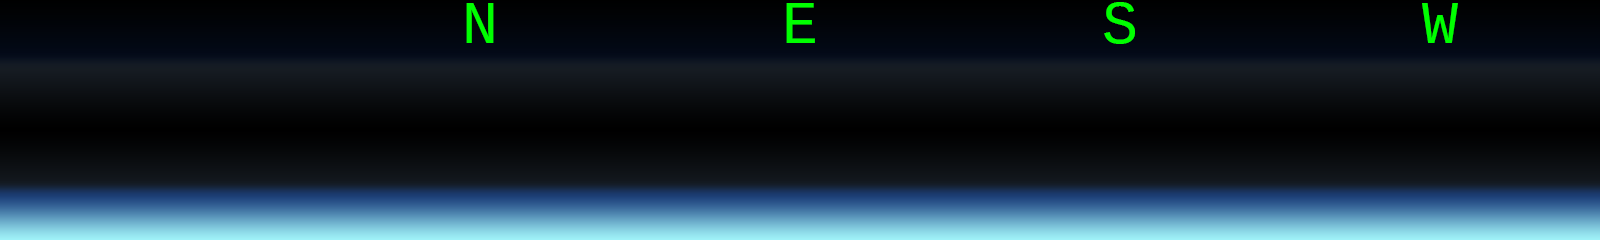
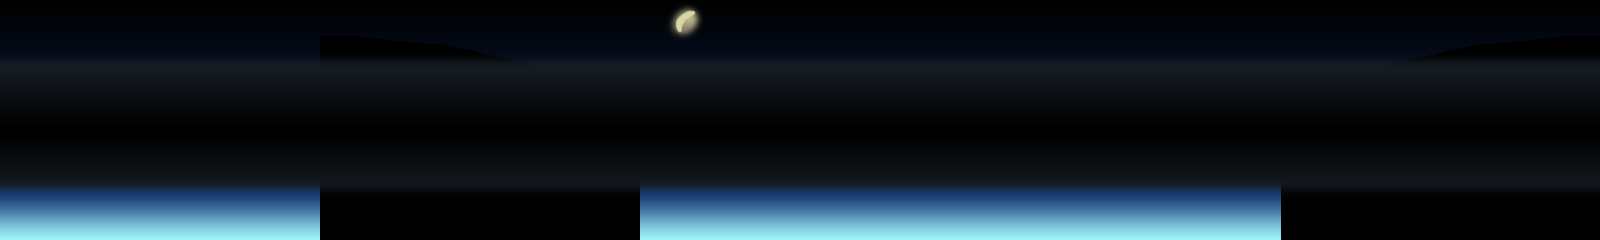
new background and shop picture system

diff --git a/release/js/dialog.js b/release/js/dialog.js
@@ -2,6 +2,8 @@
  Conversation and shop handling
  */
 
+var DIALOG_PICTURE_COUNT = 3;
+
 var DIALOG_BUTTON_NONE = 0;
 var DIALOG_BUTTON_BUY = 1;
 var DIALOG_BUTTON_EXIT = 2;
@@ -15,11 +17,17 @@ var dialog = new Object();
 dialog.select_pos = BUTTON_POS_OPT2;
 dialog.button_img = new Image();
 dialog.button_img_loaded = false;
+dialog.picture_img = new Array();
+dialog.picture_img_loaded = false;
+dialog.picture_img_loadcount = 0;
 dialog.option = new Array();
 dialog.message = "";
 dialog.shop_id = 0;
 dialog.items_for_sale = false;
 
+for (i=0; i<DIALOG_PICTURE_COUNT; i++) {
+  dialog.picture_img[i] = new Image();
+}
 
 for (var i=0; i<3; i++) {
   dialog.option[i] = new Object();
@@ -29,6 +37,15 @@ for (var i=0; i<3; i++) {
 function dialog_init() {
   dialog.button_img.src = "images/interface/dialog_buttons.png";
   dialog.button_img.onload = function() {dialog_button_onload();};
+  
+  dialog.picture_img[0].src = "images/pictures/null.png";
+  dialog.picture_img[0].onload = function() {dialog_picture_onload();};
+  
+  dialog.picture_img[1].src = "images/pictures/tavern.png";
+  dialog.picture_img[1].onload = function() {dialog_picture_onload();};
+  
+  dialog.picture_img[2].src = "images/pictures/smith.png";
+  dialog.picture_img[2].onload = function() {dialog_picture_onload();};
 
   shop_set(0);
 
@@ -36,6 +53,12 @@ function dialog_init() {
 
 function dialog_button_onload() {dialog.button_img_loaded = true;}
 
+function dialog_picture_onload()
+{
+    dialog.picture_img_loadcount += 1;
+    if(dialog.picture_img_loadcount >= DIALOG_PICTURE_COUNT)
+        dialog.picture_img_loaded = true;
+}
 
 /**** Logic Functions ****/
 
@@ -146,6 +169,11 @@ function dialog_logic_moveselect() {
 function dialog_render() {
 
   tileset_background_render(shop[dialog.shop_id].background);
+  
+  if(shop[dialog.shop_id].picture)
+  {
+      dialog_render_picture(shop[dialog.shop_id].picture);
+  }
 
   bitfont_render(dialog.title, 80, 2, JUSTIFY_CENTER);
 
@@ -168,6 +196,12 @@ function dialog_render() {
     bitfont_render(dialog.message, 80, 40, JUSTIFY_CENTER);
     dialog.message = "";
   }
+}
+
+function dialog_render_picture(picture)
+{
+    //console.log(picture);
+    ctx.drawImage(dialog.picture_img[picture],16*SCALE,12*SCALE,128*SCALE,48*SCALE);
 }
 
 function dialog_render_text(option, pos) {

diff --git a/release/js/shop.js b/release/js/shop.js
@@ -44,6 +44,7 @@ shop[4].name = "Tavern";
 shop[4].item[0] = {type:SHOP_MESSAGE, msg1:"We walled off the", msg2:"tunnels years ago."};
 shop[4].item[1] = {type:SHOP_MESSAGE, msg1:"There is a back way", msg2:"for brave souls."};
 shop[4].background = 3;
+shop[4].picture = 1;
 
 //gate
 shop[5].name = "Gate";
@@ -113,6 +114,7 @@ function shop_set(shop_id) {
   dialog.title = shop[shop_id].name;
   dialog.select_pos = BUTTON_POS_OPT2;
   dialog.items_for_sale = false;
+  //dialog.picture = shop[shop_id].picture;
 
   // most shops should use the exit button as the third option
   dialog.option[2].button = DIALOG_BUTTON_EXIT;

diff --git a/release/js/info.js b/release/js/info.js
@@ -145,7 +145,7 @@ function info_render() {
   tileset_background_render(7); //the inventory background shall always be 7, not 6, not 8, certainly not 9, 10 is right out
   //mazemap_render(avatar.x, avatar.y, avatar.facing);
  
-  bitfont_render("Info", 80, 2, JUSTIFY_CENTER);
+  bitfont_render(atlas.maps[avatar.map_id].name, 80, 2, JUSTIFY_CENTER);
 
   //TODO: render overlay
   
